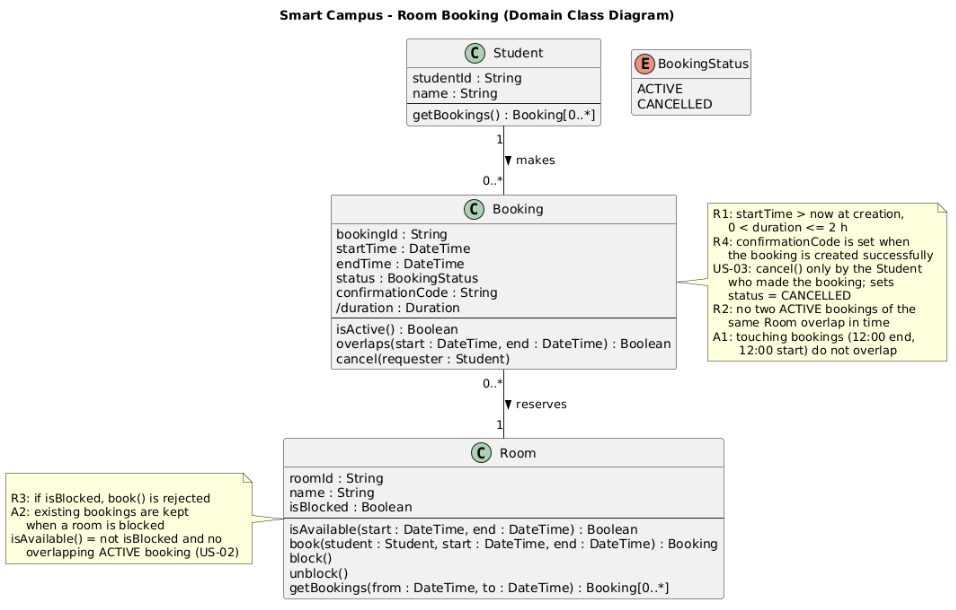
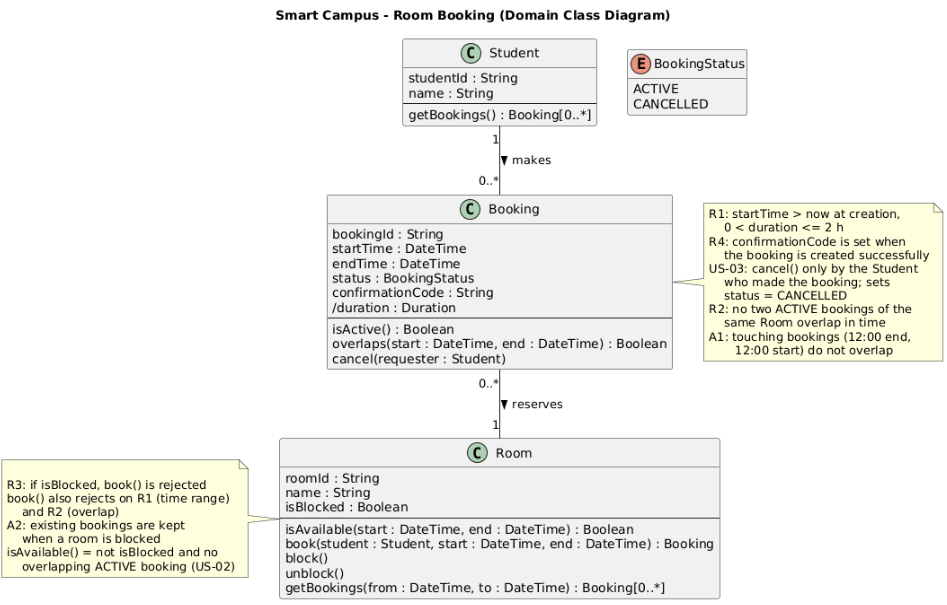
week-04: AI critique and accepted fixes

Changed region(s): [[0.0, 0.0, 1.0, 1.0], [0.2756, 0.0, 0.3981, 0.0298]]

diff --git a/week-04/lab-report.md b/week-04/lab-report.md
@@ -128,9 +128,11 @@ critique is another claim to evaluate, not a verdict: reject what is wrong and s
 
 | # | Issue the AI raised | Element it cited | Verdict | Why |
 | --- | --- | --- | --- | --- |
-| 1 | <issue> | <element> | <accept / reject> | <your reason> |
-| 2 | <issue> | <element> | <accept / reject> | <your reason> |
-| 3 | <issue> | <element> | <accept / reject> | <your reason> |
+| 1 | Story source is still a placeholder | `approved-stories.md`, "Source of this set" line | accept | It was still `<...>`; set it to "the reference set", matching §1 |
+| 2 | Room note names only R3 as a reason for book() to reject | class diagram, Room note "R3: if isBlocked, book() is rejected" | accept | The activity diagram rejects on R1, R3 and R2; the class note now says book() also rejects on R1 and R2, so the two diagrams agree |
+| 3 | R2 should move from Booking to Room | class diagram, `note right of Booking` | reject | The lab convention (README §4) requires R2 in a note on Booking; a multiplicity cannot show it and the note is where it was placed on purpose |
+| 4 | Use case labels should show story IDs (US-0x) again | use-case diagram, e.g. `usecase "Book room"` | reject | IDs were removed on purpose so §7 can spell each use case exactly as in the diagram; tracing to stories is done in §7 |
+| 5 | Stories file has broken encoding | `approved-stories.md` title and Rules column | reject | The file is UTF-8 and shows — and § correctly in the editor; the garbled characters came from copying the text to the clipboard with `clip`, not from the file |
 
 ---
 

diff --git a/week-04/models/approved-stories.md b/week-04/models/approved-stories.md
@@ -5,7 +5,7 @@
 > your set was rejected in review, keep the reference set below and say so in `lab-report.md` §1.
 > Either way, the IDs here are the ones your consistency table (§7) must use.
 
-**Source of this set:** <my week-03 stories, revised / the reference set>
+**Source of this set:** the reference set
 
 ## Scenario (from the Lesson 04 practice deck, slide 7)
 
